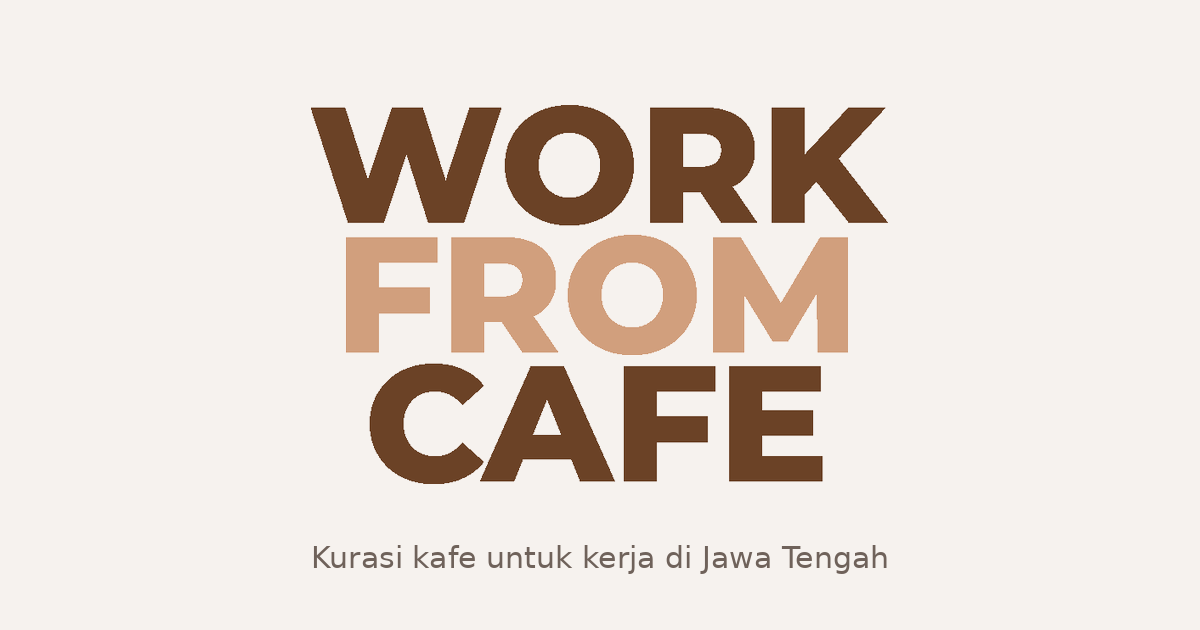
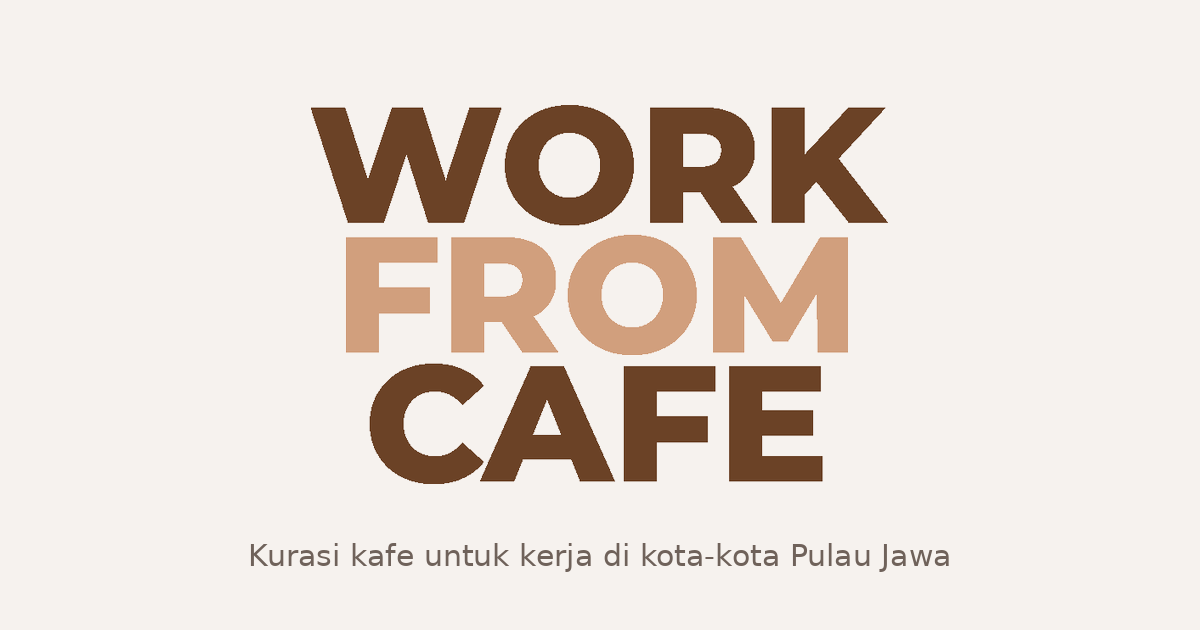
Perluas cakupan ke kota-kota besar Pulau Jawa
- Teks beranda, judul/SEO, manifest PWA, gambar share, peta, komunitas: Pulau Jawa
- Daftar provinsi Jawa + tebak provinsi otomatis dari koordinat (admin kota, sinkron sheet, rekomendasi author)
- Pilihan kota dikelompokkan per provinsi (Jelajah & form author)
- Peta otomatis menyesuaikan ke sebaran kafe
- Migrasi 0010: kota besar se-Jawa (nonaktif sampai ada kafe tayang)
- Template spreadsheet: daftar kota se-Jawa, kota lain tetap boleh

Claude-Session: https://claude.ai/code/session_013wknHBqEyU1L5pC8nHKU4Y

Changed region(s): [[0.185, 0.8444, 0.8017, 0.9048]]

diff --git a/src/app/admin/kota/page.tsx b/src/app/admin/kota/page.tsx
@@ -3,6 +3,7 @@ import { redirect } from "next/navigation";
 import { createClient } from "@/lib/supabase/server";
 import { requireAdmin } from "@/lib/auth";
 import { slugify } from "@/lib/utils";
+import { guessProvince, PROVINCES } from "@/lib/region";
 import PageHeader from "@/components/admin/PageHeader";
 import Flash from "@/components/admin/Flash";
 import SubmitButton from "@/components/admin/SubmitButton";
@@ -19,7 +20,7 @@ async function saveCity(formData: FormData) {
   const row = {
     name,
     slug: slugify(name),
-    province: String(formData.get("province") || "Jawa Tengah").trim(),
+    province: String(formData.get("province") || "").trim() || guessProvince(Number(formData.get("lat")), Number(formData.get("lng"))),
     lat: Number(formData.get("lat")),
     lng: Number(formData.get("lng")),
   };
@@ -95,7 +96,8 @@ export default async function CitiesAdmin({ searchParams }: { searchParams: Prom
           <h2 className="text-lg font-bold">{editing ? `Edit ${editing.name}` : "Tambah kota"}</h2>
           {editing && <input type="hidden" name="id" value={editing.id} />}
           <div><label htmlFor="c-name" className="label">Nama kota</label><input id="c-name" name="name" required defaultValue={editing?.name} className="input" /></div>
-          <div><label htmlFor="c-prov" className="label">Provinsi</label><input id="c-prov" name="province" defaultValue={editing?.province ?? "Jawa Tengah"} className="input" /></div>
+          <div><label htmlFor="c-prov" className="label">Provinsi</label><input id="c-prov" name="province" list="provinsi-list" defaultValue={editing?.province ?? ""} placeholder="Otomatis dari koordinat" className="input" />
+            <datalist id="provinsi-list">{PROVINCES.map((p) => <option key={p} value={p} />)}</datalist></div>
           <div className="grid grid-cols-2 gap-2">
             <div><label htmlFor="c-lat" className="label">Latitude</label><input id="c-lat" name="lat" type="number" step="any" required defaultValue={editing?.lat} className="input" /></div>
             <div><label htmlFor="c-lng" className="label">Longitude</label><input id="c-lng" name="lng" type="number" step="any" required defaultValue={editing?.lng} className="input" /></div>

diff --git a/src/app/kirim/baru/SubmitForm.tsx b/src/app/kirim/baru/SubmitForm.tsx
@@ -10,6 +10,7 @@ import { submitRecommendation, type SubmitState } from "../actions";
 import { AmenityFields, ScoreFields } from "@/components/ReviewFields";
 import OpeningHoursInput from "@/components/admin/OpeningHoursInput";
 import Icon from "@/components/Icon";
+import CityOptions from "@/components/CityOptions";
 import type { City } from "@/lib/types";
 
 type MenuRow = { name: string; price: string; note: string; is_must_try: boolean };
@@ -122,7 +123,7 @@ export default function SubmitForm({ userId, defaultName, cities }: { userId: st
             <input type="hidden" name="city_id" value={cityId === "__other" ? "" : cityId} />
             <select id="city_id" required value={cityId} onChange={(e) => setCityId(e.target.value)} className="input">
               <option value="" disabled>Pilih kota</option>
-              {cities.map((c) => <option key={c.id} value={c.id}>{c.name}</option>)}
+              <CityOptions cities={cities} />
               <option value="__other">Kota lain…</option>
             </select>
             {cityId === "__other" && <input name="city_other" required aria-label="Nama kota" placeholder="Tulis nama kotanya" maxLength={60} className="input mt-2" />}

diff --git a/src/lib/sheetSync.ts b/src/lib/sheetSync.ts
@@ -2,6 +2,7 @@ import readXlsxFile from "read-excel-file/node";
 import type { SupabaseClient } from "@supabase/supabase-js";
 import { parseCoords } from "./coords";
 import { PRICE_RANGES, slugify } from "./utils";
+import { guessProvince, MAP_CENTER } from "./region";
 import type { DayKey, OpeningHours } from "./types";
 import { AMENITIES, ASPECTS, averageScore, cleanScore, parseAmenity, type Amenities, type Scores } from "./review";
 
@@ -158,7 +159,7 @@ export async function syncWorkbook(db: SupabaseClient, data: ArrayBuffer | Buffe
     const hit = cityByName.get(key);
     if (hit) return hit;
     const { data, error } = await db.from("cities")
-      .insert({ name, slug: slugify(name), province: "Jawa Tengah", lat: lat ?? -7.15, lng: lng ?? 110.14, is_active: false })
+      .insert({ name, slug: slugify(name), province: guessProvince(lat, lng), lat: lat ?? MAP_CENTER[0], lng: lng ?? MAP_CENTER[1], is_active: false })
       .select("id,name,is_active").single();
     if (error) throw new Error(`Gagal membuat kota ${name}: ${error.message}`);
     cityByName.set(key, data);

diff --git a/src/app/admin/rekomendasi/actions.ts b/src/app/admin/rekomendasi/actions.ts
@@ -5,6 +5,7 @@ import { createClient } from "@/lib/supabase/server";
 import { requireAdmin } from "@/lib/auth";
 import { slugify } from "@/lib/utils";
 import { averageScore } from "@/lib/review";
+import { guessProvince, MAP_CENTER } from "@/lib/region";
 import type { Submission } from "@/lib/submission";
 
 /** Terima kiriman: buat kafe berstatus draf (belum tayang) lengkap dengan menu & foto, lalu buka form edit. */
@@ -27,7 +28,7 @@ export async function approveSubmission(formData: FormData) {
     if (found) cityId = found.id;
     else {
       const { data: city, error } = await supabase.from("cities")
-        .insert({ name: d.city_name, slug: slugify(d.city_name), province: "Jawa Tengah", lat: d.lat ?? -7.15, lng: d.lng ?? 110.14, is_active: false })
+        .insert({ name: d.city_name, slug: slugify(d.city_name), province: guessProvince(d.lat, d.lng), lat: d.lat ?? MAP_CENTER[0], lng: d.lng ?? MAP_CENTER[1], is_active: false })
         .select("id").single();
       if (error) return back(`Gagal membuat kota ${d.city_name}: ${error.message}`);
       cityId = city.id;

diff --git a/src/lib/region.ts b/src/lib/region.ts
@@ -1,0 +1,23 @@
+/*
+  Cakupan wilayah WorkFromCafe.
+  Saat ini prioritas kota-kota besar di Pulau Jawa; daftar provinsi bisa ditambah kapan saja.
+*/
+
+export const REGION_LABEL = "Pulau Jawa";
+
+export const PROVINCES = ["DKI Jakarta", "Banten", "Jawa Barat", "Jawa Tengah", "DI Yogyakarta", "Jawa Timur"] as const;
+
+/** Titik tengah peta default (Pulau Jawa). */
+export const MAP_CENTER: [number, number] = [-7.2, 110.0];
+
+/** Tebak provinsi di Jawa dari koordinat (perkiraan kasar, bisa dikoreksi di Admin → Kota). */
+export function guessProvince(lat: number | null | undefined, lng: number | null | undefined): string {
+  if (lat == null || lng == null) return "Jawa Tengah";
+  if (lat > -6.38 && lat < -6.05 && lng > 106.74 && lng < 106.95) return "DKI Jakarta";
+  if (lat > -8.25 && lat < -7.62 && lng > 110.0 && lng < 110.85) return "DI Yogyakarta";
+  if (lng < 106.1) return "Banten";
+  if (lng < 106.8 && lat > -6.4) return "Banten"; // Tangerang dan sekitarnya
+  if (lng < 108.85) return "Jawa Barat";
+  if (lng < 111.7) return "Jawa Tengah";
+  return "Jawa Timur";
+}

diff --git a/src/components/CityOptions.tsx b/src/components/CityOptions.tsx
@@ -1,0 +1,22 @@
+import { PROVINCES } from "@/lib/region";
+import type { City } from "@/lib/types";
+
+/** <option> kota dikelompokkan per provinsi (urut barat ke timur). valueKey: id atau slug. */
+export default function CityOptions({ cities, valueKey = "id" }: { cities: City[]; valueKey?: "id" | "slug" }) {
+  const order = (p: string) => { const i = (PROVINCES as readonly string[]).indexOf(p); return i < 0 ? 99 : i; };
+  const groups = new Map<string, City[]>();
+  for (const c of [...cities].sort((a, b) => order(a.province) - order(b.province) || a.name.localeCompare(b.name))) {
+    const key = c.province || "Lainnya";
+    groups.set(key, [...(groups.get(key) ?? []), c]);
+  }
+  if (groups.size <= 1) return <>{cities.map((c) => <option key={c.id} value={c[valueKey]}>{c.name}</option>)}</>;
+  return (
+    <>
+      {[...groups].map(([prov, list]) => (
+        <optgroup key={prov} label={prov}>
+          {list.map((c) => <option key={c.id} value={c[valueKey]}>{c.name}</option>)}
+        </optgroup>
+      ))}
+    </>
+  );
+}

diff --git a/src/components/CafeMap.tsx b/src/components/CafeMap.tsx
@@ -1,12 +1,20 @@
 "use client";
 import "leaflet/dist/leaflet.css";
 import { MapContainer, TileLayer, CircleMarker, Popup } from "react-leaflet";
+import { MAP_CENTER } from "@/lib/region";
 
 export type MapCafe = { slug: string; name: string; lat: number; lng: number; city: string; rating: number | null };
 
 export default function CafeMap({ cafes }: { cafes: MapCafe[] }) {
   return (
-    <MapContainer center={[-7.15, 110.14]} zoom={8} scrollWheelZoom className="h-full w-full">
+    <MapContainer
+      center={MAP_CENTER}
+      zoom={7}
+      bounds={cafes.length > 1 ? cafes.map((c) => [c.lat, c.lng] as [number, number]) : undefined}
+      boundsOptions={{ padding: [40, 40], maxZoom: 13 }}
+      scrollWheelZoom
+      className="h-full w-full"
+    >
       <TileLayer
         attribution='&copy; <a href="https://www.openstreetmap.org/copyright">OpenStreetMap</a>'
         url="https://{s}.tile.openstreetmap.org/{z}/{x}/{y}.png"

diff --git a/src/app/layout.tsx b/src/app/layout.tsx
@@ -8,9 +8,9 @@ import { APP_NAME, SITE_URL } from "@/lib/utils";
 
 export const metadata: Metadata = {
   metadataBase: new URL(SITE_URL),
-  title: { default: `${APP_NAME} — Kafe untuk kerja di Jawa Tengah`, template: `%s | ${APP_NAME}` },
+  title: { default: `${APP_NAME} — Kafe untuk kerja di Pulau Jawa`, template: `%s | ${APP_NAME}` },
   description:
-    "Koleksi kafe pilihan di Semarang, Solo, Purwokerto, Magelang dan kota lain di Jawa Tengah, lengkap dengan menu yang wajib dicoba.",
+    "Koleksi kafe pilihan untuk kerja di kota-kota besar Pulau Jawa: Jakarta, Bandung, Yogyakarta, Semarang, Solo, Surabaya, Malang, dan lainnya. Lengkap dengan penilaian kerja dan menu yang wajib dicoba.",
   manifest: "/manifest.webmanifest",
   appleWebApp: { capable: true, title: APP_NAME, statusBarStyle: "default" },
   icons: { apple: "/icons/apple-touch-icon.png" },

diff --git a/src/app/kafe/page.tsx b/src/app/kafe/page.tsx
@@ -1,4 +1,5 @@
 import type { Metadata } from "next";
+import CityOptions from "@/components/CityOptions";
 import Link from "next/link";
 import { createClient } from "@/lib/supabase/server";
 import NearbyGrid from "@/components/NearbyGrid";
@@ -56,7 +57,7 @@ export default async function CafesPage({ searchParams }: { searchParams: SP }) 
             <label className="label">Kota</label>
             <select name="kota" defaultValue={sp.kota ?? ""} className="input">
               <option value="">Semua kota</option>
-              {(cities as City[] | null)?.map((c) => <option key={c.id} value={c.slug}>{c.name}</option>)}
+              <CityOptions cities={(cities as City[] | null) ?? []} valueKey="slug" />
             </select>
           </div>
           <div>

diff --git a/src/app/kota/[slug]/page.tsx b/src/app/kota/[slug]/page.tsx
@@ -10,11 +10,11 @@ type P = Promise<{ slug: string }>;
 export async function generateMetadata({ params }: { params: P }): Promise<Metadata> {
   const { slug } = await params;
   const supabase = await createClient();
-  const { data } = await supabase.from("cities").select("name").eq("slug", slug).maybeSingle();
+  const { data } = await supabase.from("cities").select("name,province").eq("slug", slug).maybeSingle();
   if (!data) return {};
   return {
     title: `Kafe di ${data.name}`,
-    description: `Daftar kafe pilihan di ${data.name}, Jawa Tengah, lengkap dengan menu rekomendasi.`,
+    description: `Daftar kafe pilihan untuk kerja di ${data.name}${data.province ? `, ${data.province}` : ""}, lengkap dengan penilaian dan menu rekomendasi.`,
   };
 }
 

diff --git a/src/app/page.tsx b/src/app/page.tsx
@@ -40,7 +40,7 @@ export default async function Home() {
             Kerja dari kafe mana hari ini?
           </h1>
           <p className="mt-5 max-w-xl text-lg text-ink/75">
-            {count ?? 0} kafe di Jawa Tengah yang sudah aku coba sendiri. Lengkap dengan colokan, wifi, dan menu yang layak dipesan.
+            {count ?? 0} kafe di kota-kota besar Pulau Jawa yang sudah dicoba langsung. Lengkap dengan colokan, wifi, dan menu yang layak dipesan.
           </p>
           <form action="/kafe" className="mt-8 flex max-w-xl items-center gap-2 rounded-full border border-line bg-surface p-1.5 pl-5 shadow-[0_8px_30px_-12px_rgba(20,26,23,.18)] focus-within:border-brand">
             <Icon name="search" className="h-5 w-5 shrink-0 text-muted" />

diff --git a/src/components/CommunityCard.tsx b/src/components/CommunityCard.tsx
@@ -23,7 +23,7 @@ export default function CommunityCard({ url, variant = "wide" }: { url: string; 
           <p className="text-sm font-semibold uppercase tracking-wider text-tan">Komunitas</p>
           <h2 className="mt-2 text-3xl font-bold leading-tight md:text-4xl">Gabung bareng WFC Hunters &amp; Author.</h2>
           <p className="mt-3 max-w-md text-white/70">
-            Tempat ngobrol para pemburu kafe kerja di Jawa Tengah: tukar rekomendasi, cari teman kerja bareng, dan dapat kabar kafe baru lebih dulu.
+            Tempat ngobrol para pemburu kafe kerja di kota-kota Pulau Jawa: tukar rekomendasi, cari teman kerja bareng, dan dapat kabar kafe baru lebih dulu.
           </p>
         </div>
         <div className="md:text-right">
